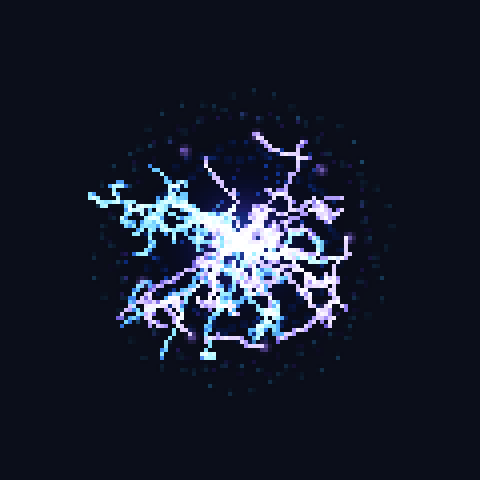
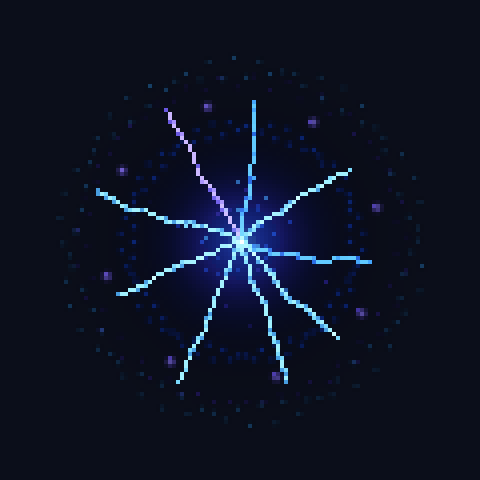
Arcane burst: slower, controlled radial spokes, less white, bluer/violet

diff --git a/arcane-burst.html b/arcane-burst.html
@@ -27,7 +27,8 @@ const acc=new Float32Array(N*3);
 let RNG=Math.random;
 
 const WHITE=[1,1,1], PALE=[.62,.95,1], CYAN=[.32,.85,1], BLUE=[.12,.42,1], DEEP=[.06,.22,.85], VIOLET=[.55,.32,1], MAG=[.78,.55,1];
-const CYCLE=2.1;
+const CYCLE=3.8;
+function mulberry32(a){ return function(){ a|=0;a=a+0x6D2B79F5|0; let t=Math.imul(a^a>>>15,1|a); t=t+Math.imul(t^t>>>7,61|t)^t; return ((t^t>>>14)>>>0)/4294967296; }; }
 
 /* noise */
 function hash(x,y){ let n=(x|0)*374761393+(y|0)*668265263; n=(n^(n>>13))*1274126177; return ((n^(n>>16))>>>0)/4294967296; }
@@ -50,7 +51,7 @@ function arc(x0,y0,x1,y1,disp,col,inten,depth){
   for(let i=0;i<pts.length-1;i++){ const a=pts[i],b=pts[i+1],L=Math.hypot(b[0]-a[0],b[1]-a[1]),S=Math.ceil(L);
     for(let s=0;s<=S;s++){ const k=s/S,x=a[0]+(b[0]-a[0])*k,y=a[1]+(b[1]-a[1])*k;
       add(x,y,col[0]*1.7*inten,col[1]*1.7*inten,col[2]*2.1*inten);
-      add(x,y,PALE[0]*0.28*inten,PALE[1]*0.28*inten,PALE[2]*0.30*inten);
+      add(x,y,PALE[0]*0.16*inten,PALE[1]*0.16*inten,PALE[2]*0.18*inten);
       if(depth>0&&RNG()<0.05) forks.push([x,y]); } }
   for(const f of forks) arc(f[0],f[1], f[0]+(RNG()*16-8), f[1]+(RNG()*16-8), 3, col, inten*0.6, depth-1);
 }
@@ -84,48 +85,50 @@ function frame(t,dt){
       const cr=R*0.62;
       for(let y=(CY-cr)|0;y<=CY+cr;y++)for(let x=(CX-cr)|0;x<=CX+cr;x++){
         const dx=x-CX,dy=y-CY,d=Math.sqrt(dx*dx+dy*dy); if(d>cr)continue;
-        const n=0.35+1.05*fbm(x*0.12+t*3, y*0.12-t*2);
+        const n=0.45+0.85*fbm(x*0.11+t*1.0, y*0.11-t*0.7);
         let f=(1-d/cr); f*=f*n;
         const tt=d/cr; const col= tt<0.12?CYAN : tt<0.34?BLUE : tt<0.62?VIOLET : DEEP;
         add(x,y,col[0]*f*coreI, col[1]*f*coreI, col[2]*f*coreI);
       }
-      glow(CX,CY, R*0.30, CYAN, coreI*0.5);
+      glow(CX,CY, R*0.30, CYAN, coreI*0.4);
       glow(CX,CY, R*1.2, DEEP, 0.42*fade);                  // deep-blue field aura
       glow(CX,CY, R*0.85, VIOLET, 0.22*fade);               // violet inner field
     }
 
     // ---- detonation flash ----
-    if(flash>0){ glow(CX,CY, Rmax*0.95, BLUE, flash*0.6); glow(CX,CY, 26, CYAN, flash*0.7); glow(CX,CY, 12, PALE, flash*0.8); }
+    if(flash>0){ glow(CX,CY, Rmax*0.95, BLUE, flash*0.5); glow(CX,CY, 24, CYAN, flash*0.55); }
 
-    // ---- expanding shock rings (energy fields) ----
+    // ---- expanding shock rings (energy fields), slow & smooth ----
     for(const rk of [1.0, 0.66]){
       const rr=R*rk; const col= rk>0.8?CYAN:BLUE;
-      for(let deg=0;deg<360;deg+=4){ const a=deg*Math.PI/180 + t*(rk>0.8?0.4:-0.6);
-        const wob=1+0.10*Math.sin(deg*0.7+t*6);
-        glow(CX+Math.cos(a)*rr*wob, CY+Math.sin(a)*rr*wob, 1.8, col, 0.5*fade); }
+      for(let deg=0;deg<360;deg+=4){ const a=deg*Math.PI/180 + t*(rk>0.8?0.18:-0.26);
+        const wob=1+0.06*Math.sin(deg*0.7+t*2);
+        glow(CX+Math.cos(a)*rr*wob, CY+Math.sin(a)*rr*wob, 1.7, col, 0.5*fade); }
     }
 
-    // ---- radial electric arcs blasting outward (regenerated) ----
-    const nA=(8+24*(1-p))*fade|0;
-    for(let i=0;i<nA;i++){ const a=RNG()*6.283, len=R*(0.55+RNG()*0.5), rr=RNG();
-      const col=rr<0.38?CYAN : rr<0.68?BLUE : VIOLET;
-      arc(CX,CY, CX+Math.cos(a)*len, CY+Math.sin(a)*len, 3.5, col, (0.7+0.5*RNG())*fade, 1); }
+    // ---- radial electric arcs: evenly-spaced spokes, refreshed at a
+    //      controlled rate (not every frame) so it reads steady, not frantic ----
+    const r=mulberry32((Math.floor(t*6)*2654435761)>>>0);
+    RNG=r;
+    const nA=9;
+    for(let i=0;i<nA;i++){ const a=(i/nA)*6.283 + (r()*2-1)*0.22, len=R*(0.72+r()*0.22), rr=r();
+      const col=rr<0.5?CYAN : rr<0.8?BLUE : VIOLET;
+      arc(CX,CY, CX+Math.cos(a)*len, CY+Math.sin(a)*len, 2.4, col, 0.85*fade, 0); }
+    RNG=Math.random;
 
-    // ---- arcane violet field ring ----
-    for(let deg=0;deg<360;deg+=6){ const a=deg*Math.PI/180 - t*0.9, rr=R*0.92*(1+0.06*Math.sin(deg*0.5+t*5));
-      glow(CX+Math.cos(a)*rr, CY+Math.sin(a)*rr, 1.6, VIOLET, 0.42*fade); }
+    // ---- arcane violet field ring (slow) ----
+    for(let deg=0;deg<360;deg+=6){ const a=deg*Math.PI/180 - t*0.35, rr=R*0.92*(1+0.04*Math.sin(deg*0.5+t*1.6));
+      glow(CX+Math.cos(a)*rr, CY+Math.sin(a)*rr, 1.5, VIOLET, 0.40*fade); }
 
-    // ---- orbiting arcane runes (violet magic) + tangential crackle ----
-    const nR=9, rot=t*1.7;
-    for(let i=0;i<nR;i++){ const a=rot+i*(6.283/nR), rr=R*0.78;
+    // ---- orbiting arcane runes (violet magic), slow rotation ----
+    const nR=8, rot=t*0.7;
+    for(let i=0;i<nR;i++){ const a=rot+i*(6.283/nR), rr=R*0.80;
       const x=CX+Math.cos(a)*rr, y=CY+Math.sin(a)*rr;
-      glow(x,y,2.8, MAG, 1.1*fade); add(x,y, VIOLET[0]*0.6*fade,VIOLET[1]*0.6*fade,VIOLET[2]*0.7*fade);
-      if(RNG()<0.5){ const a2=a+0.55; arc(x,y, CX+Math.cos(a2)*rr, CY+Math.sin(a2)*rr, 2, VIOLET, 0.7*fade, 0); }
-    }
+      glow(x,y,2.6, MAG, 1.0*fade); add(x,y, VIOLET[0]*0.5*fade,VIOLET[1]*0.5*fade,VIOLET[2]*0.6*fade); }
 
-    // ---- spark particles ----
-    if(p<0.7){ const ns=(3+8*flash)|0; for(let i=0;i<ns;i++){ const a=RNG()*6.283, sp=0.8+RNG()*2.4;
-      P.push({x:CX,y:CY,vx:Math.cos(a)*sp,vy:Math.sin(a)*sp,life:0,max:12+RNG()*16}); } }
+    // ---- spark particles (sparse) ----
+    if(p<0.6){ const ns=(1+4*flash)|0; for(let i=0;i<ns;i++){ const a=Math.random()*6.283, sp=0.6+Math.random()*1.6;
+      P.push({x:CX,y:CY,vx:Math.cos(a)*sp,vy:Math.sin(a)*sp,life:0,max:16+Math.random()*18}); } }
   }
   // update sparks
   const nx=[];
@@ -136,8 +139,8 @@ function frame(t,dt){
   // ---- compose: tonemap + alpha from brightness ----
   const img=OUT;
   for(let i=0;i<N;i++){ let r=acc[i*3],g=acc[i*3+1],b=acc[i*3+2];
-    r=1-Math.exp(-r*0.72); g=1-Math.exp(-g*0.78); b=1-Math.exp(-b*1.05);   // less R/G headroom -> bluer, less white
-    const lum=Math.max(r,g,b), a=Math.min(1,lum*2.4);
+    r=1-Math.exp(-r*0.60); g=1-Math.exp(-g*0.70); b=1-Math.exp(-b*1.05);   // less R/G headroom -> bluer, less white
+    const lum=Math.max(r,g,b), a=Math.min(1,lum*2.6);
     img[i*4]=r*255; img[i*4+1]=g*255; img[i*4+2]=b*255; img[i*4+3]=a*255; }
   return img;
 }
